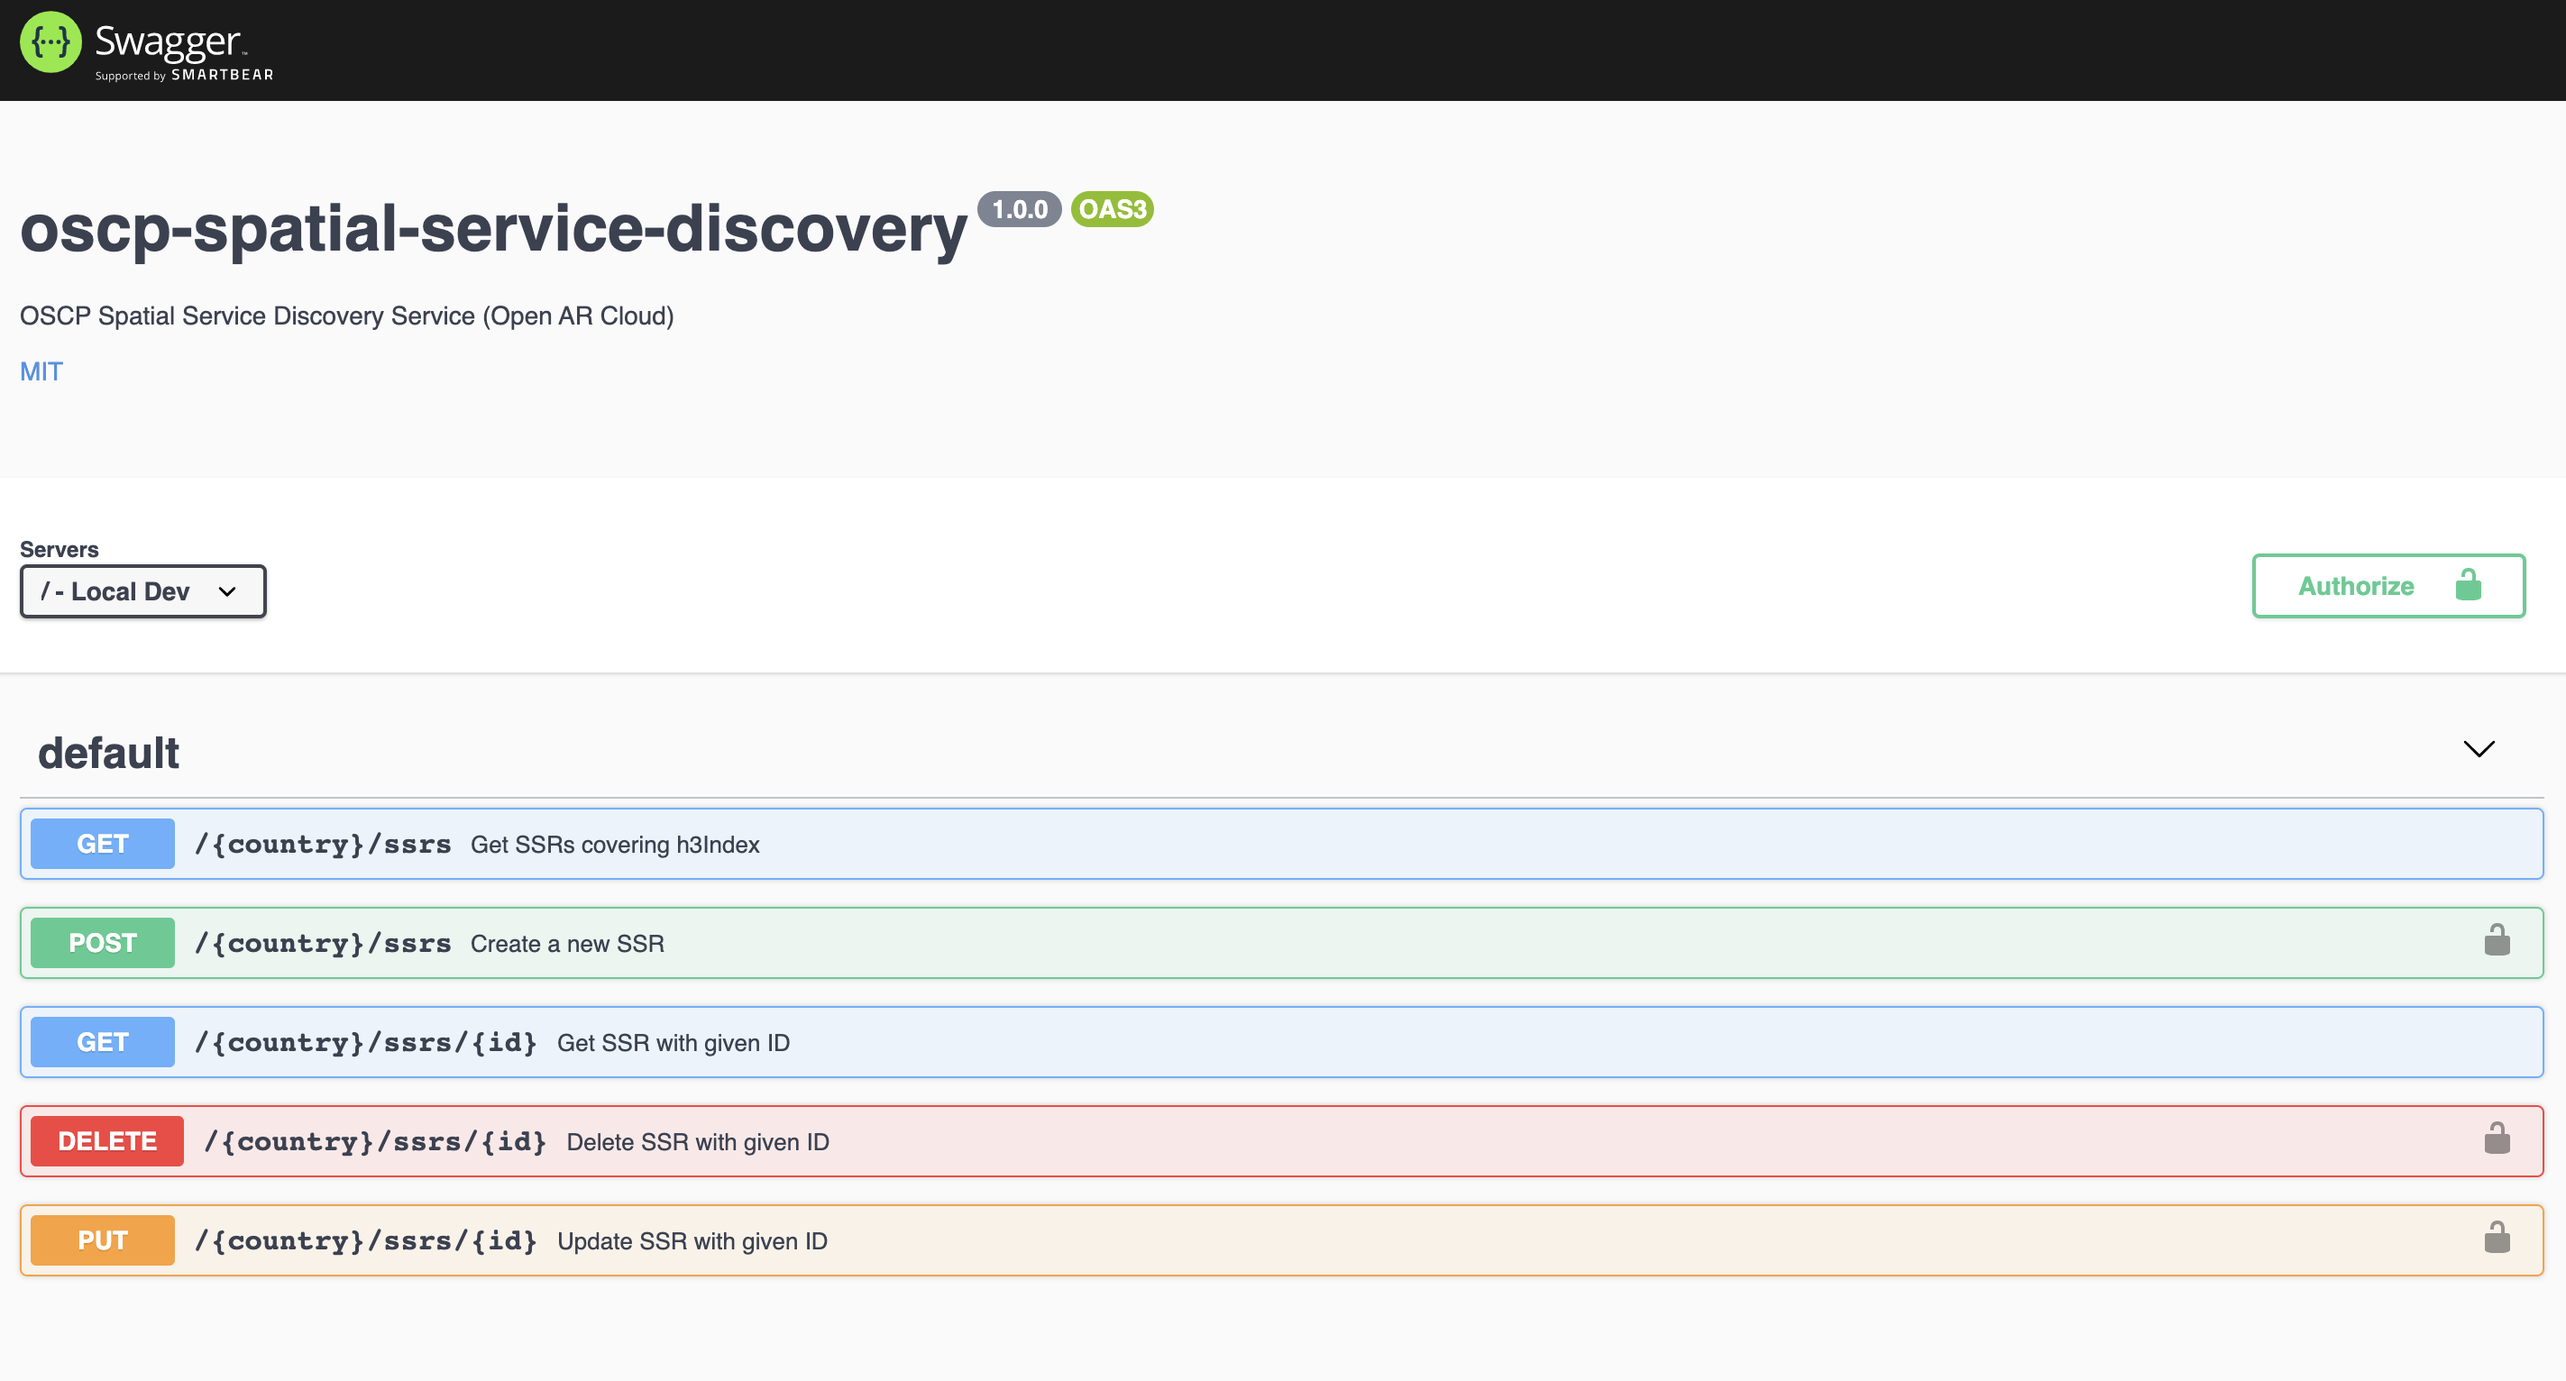
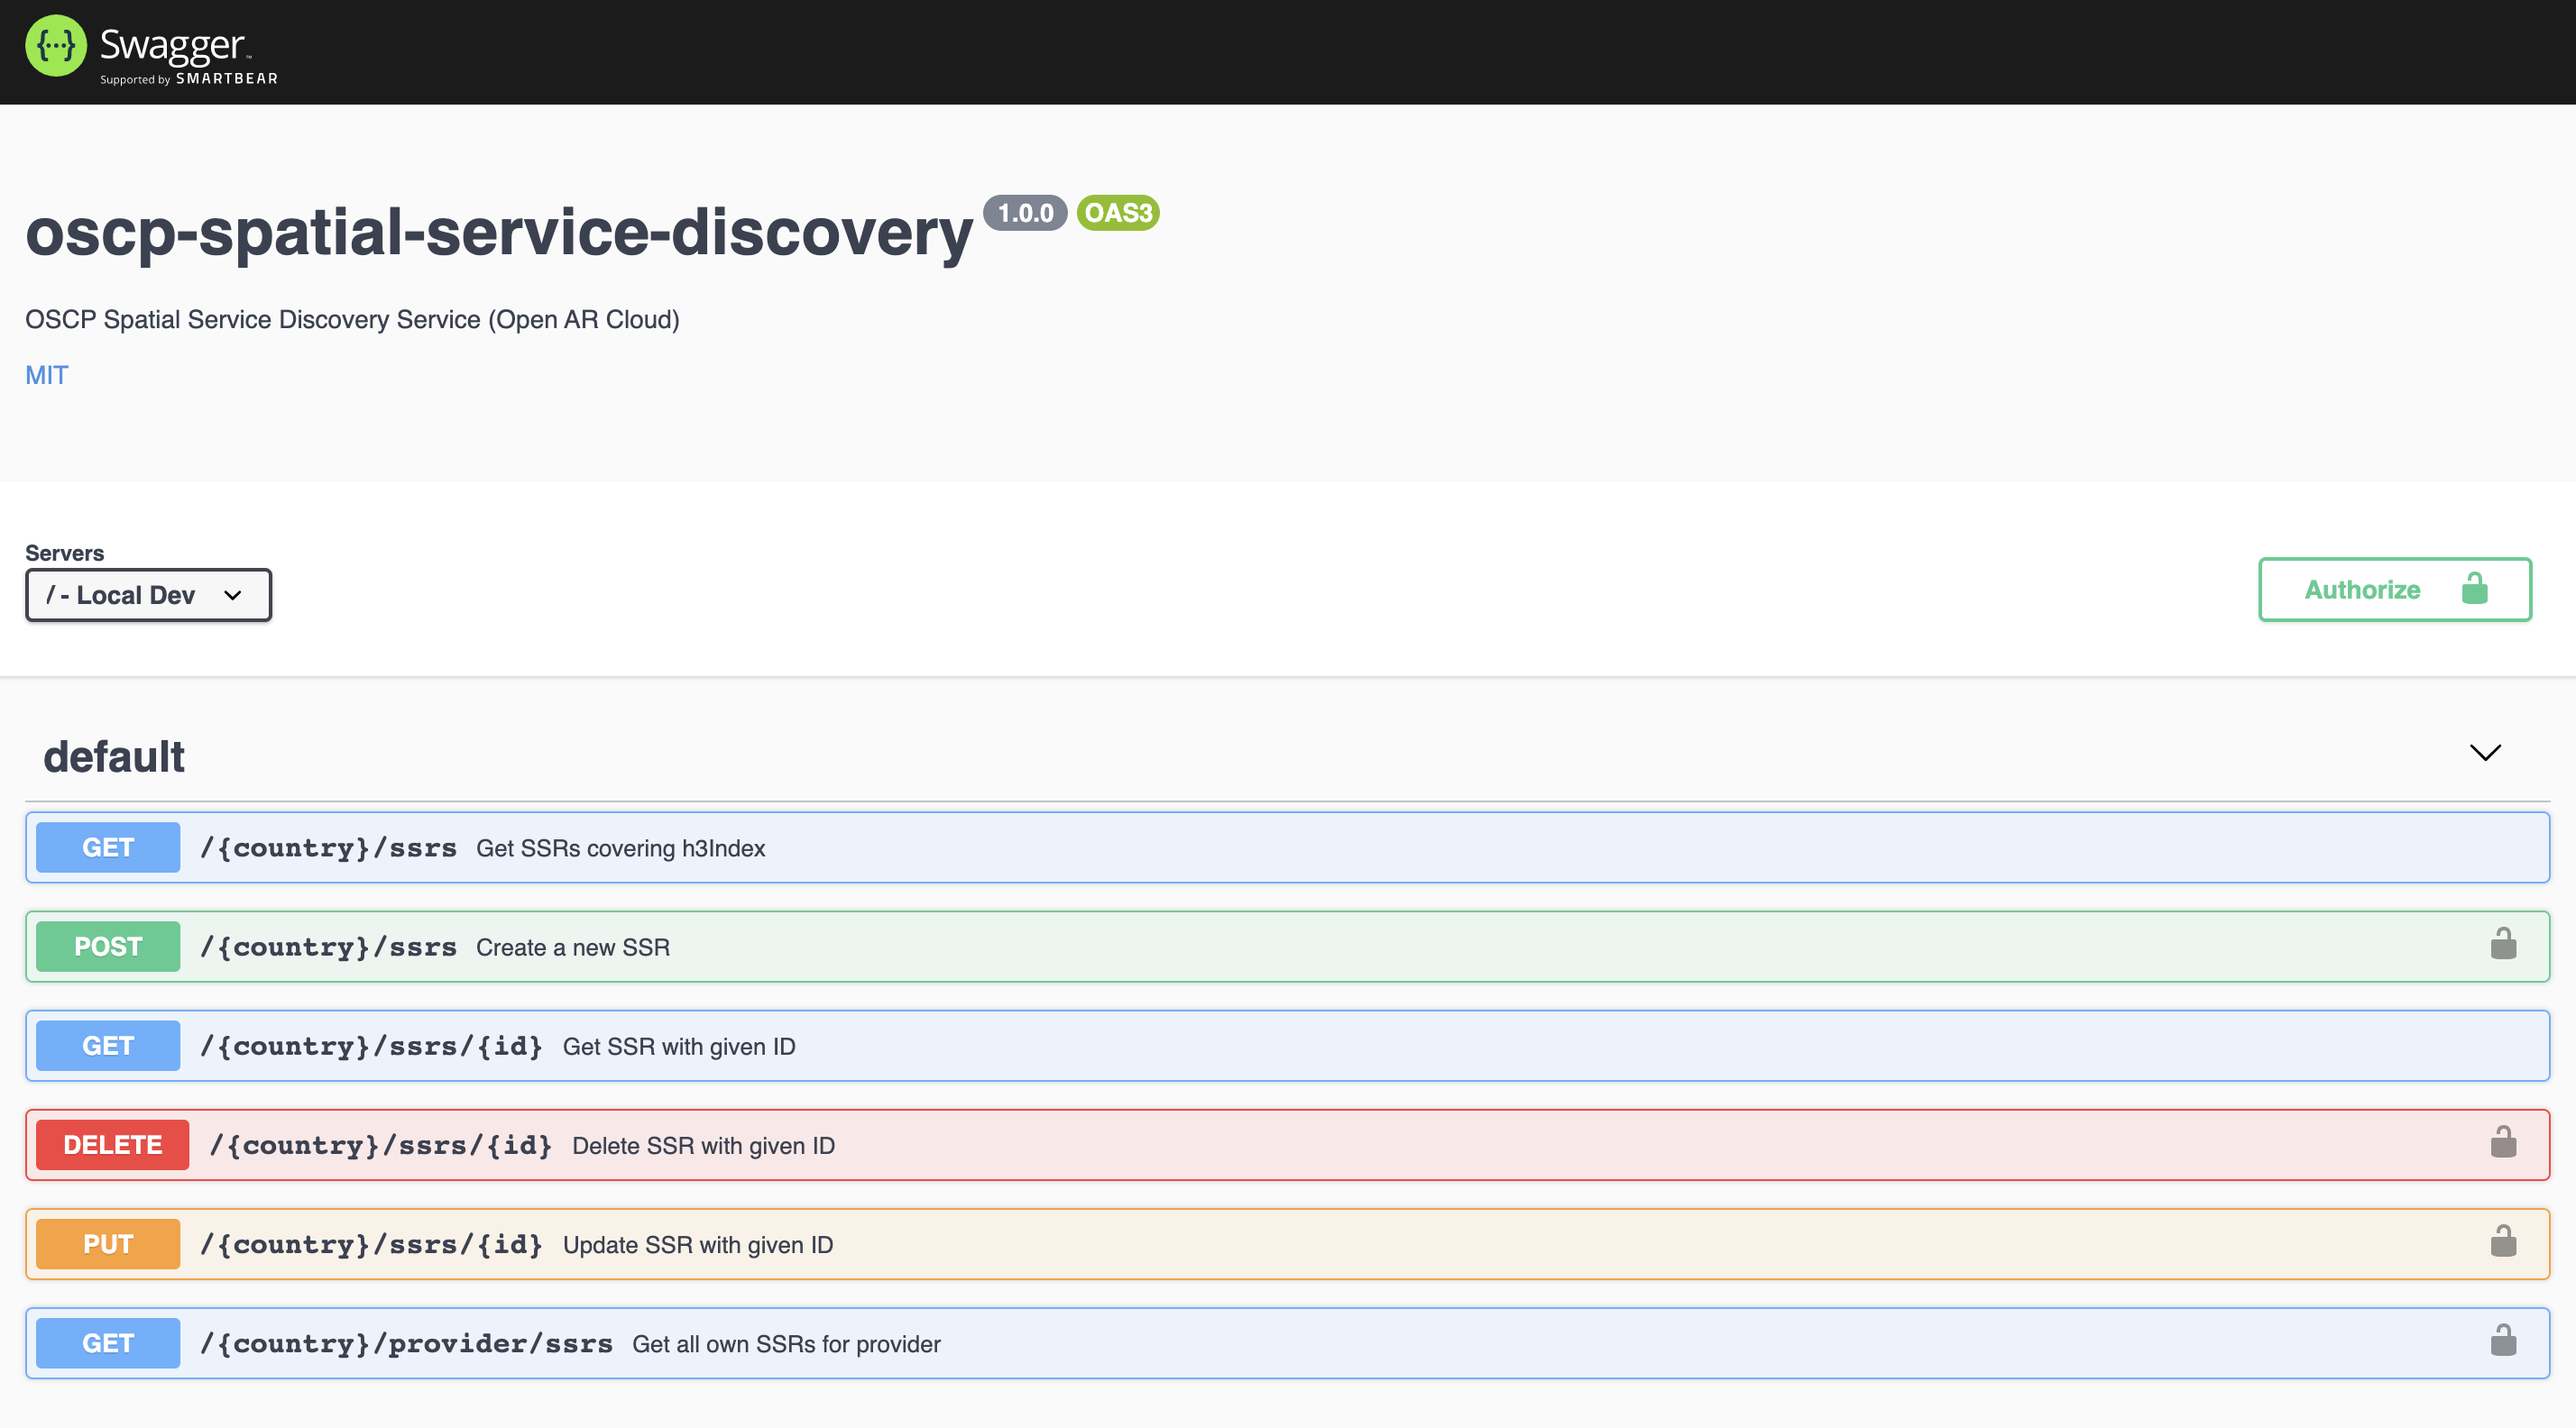
add route for all provider ssrs

diff --git a/src/service.ts b/src/service.ts
@@ -163,6 +163,46 @@ export const findHex = async (
   return ssrs;
 };
 
+export const findAllProvider = async (
+  country: string,
+  provider: string
+): Promise<Ssr[]> => {
+
+  if (!COUNTRIES.includes(country)) throw new Error("Invalid country");
+  if (!provider) throw new Error("Invalid provider");
+
+  const osmQuery = new Promise<Element[]>((resolve, reject) => {
+    kappaCores[country].query([-180, -90, 180, 90], function (
+      err,
+      nodes
+    ) {
+      if (err) reject(err);
+      else resolve(nodes);
+    });
+  });
+
+  const elements: Element[] = await osmQuery;
+
+  const ways = elements.filter((element) => element.type === "way");
+
+  const waysAllProvider = ways.filter((element) => element.tags.provider === provider);
+
+  const mapResponse = (response: Element[]) =>
+    response.map((p) => ({
+      id: p.id,
+      type: "ssr",
+      services: p.tags.services,
+      geometry: p.tags.geometry,
+      altitude: p.tags.altitude,
+      provider: p.tags.provider,
+      timestamp: p.timestamp,
+    }));
+
+  const ssrs: Ssr[] = mapResponse(waysAllProvider);
+
+  return ssrs;
+};
+
 export const create = async (
   country: string,
   ssr: SsrDto,

diff --git a/src/router.ts b/src/router.ts
@@ -15,6 +15,25 @@ class Router {
     const router = express.Router();
 
     router.get(
+      "/:country/provider/ssrs",
+      checkJwt,
+      jwtAuthz(["read:ssrs"]),
+      async (req: express.Request, res: express.Response) => {
+        try {
+          const provider: string = req["user"][AUTH0_AUDIENCE + "/provider"];
+          const country: string = req.params.country.toUpperCase();
+          const ssrs: Ssr[] = await Service.findAllProvider(country, provider);
+          res
+            .status(200)
+            .type("application/vnd.oscp+json; version=" + Global.ssdVersion)
+            .send(ssrs);
+        } catch (e) {
+          res.status(404).send(e.message);
+        }
+      }
+    );
+
+    router.get(
       "/:country/ssrs/:id",
       async (req: express.Request, res: express.Response) => {
         try {
